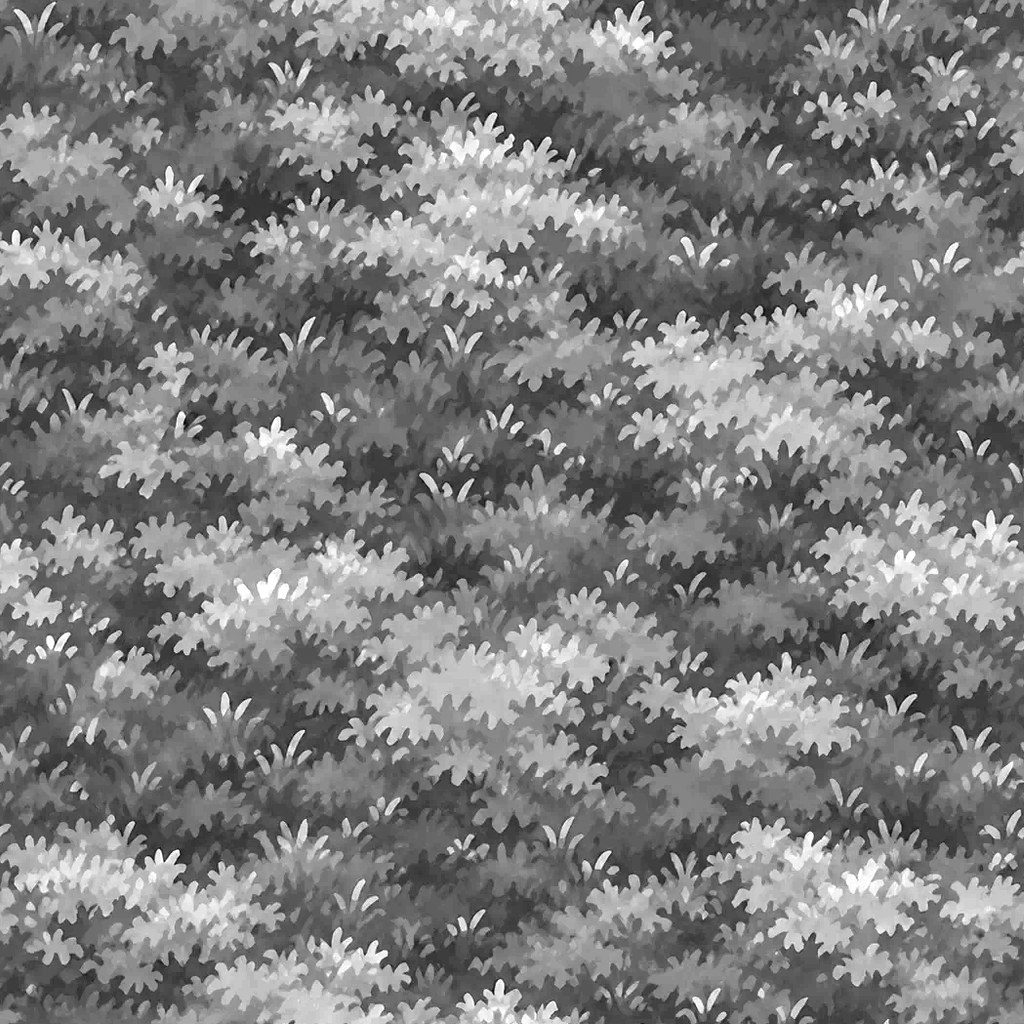
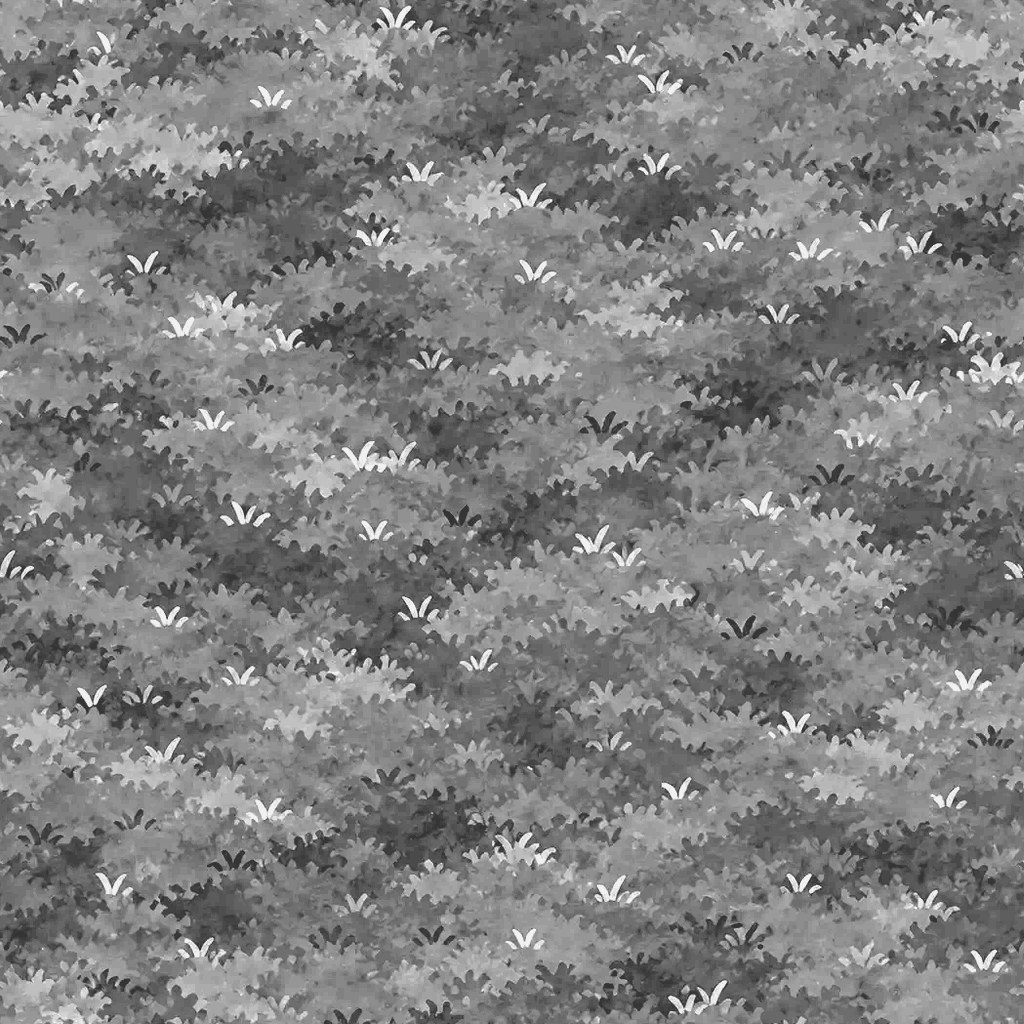
Gräsmönster 1 (deep rough): mjukare tecknad tile
Ny bild som mönster 1: gråskala med lägre kontrast (0,13) och några vita strån avkapade så att de inte dominerar, sömlös med min-cut-söm. Cache-versionen höjd till ?v=4.

Claude-Session: https://claude.ai/code/session_015PHBbkGscdhksZ9Htf2CCd

diff --git a/terrain-shells.js b/terrain-shells.js
@@ -724,7 +724,7 @@
             this._grassTex = cached; this._grassTexReady = !!cached;
             if (this.grassTexOn && !cached && !this._grassTexLoading[v]) {
                 this._grassTexLoading[v] = true;
-                new THREE.TextureLoader().load(v === 2 ? 'grass-tile-2.jpg?v=2' : 'grass-tile.jpg?v=3', (tex) => {
+                new THREE.TextureLoader().load(v === 2 ? 'grass-tile-2.jpg?v=2' : 'grass-tile.jpg?v=4', (tex) => {
                     tex.wrapS = tex.wrapT = THREE.RepeatWrapping;
                     tex.minFilter = THREE.LinearMipmapLinearFilter; tex.magFilter = THREE.LinearFilter;
                     tex.generateMipmaps = true; tex.anisotropy = 4;

diff --git a/SYSTEM_MAP.md b/SYSTEM_MAP.md
@@ -306,7 +306,7 @@ Adressen i byggaren förblir `?autorun=edit_build&edit=KOD` efter sparning. Test
 `terrain-shells.js`: gräset är 3/5/8 skal (LOW/MED/HIGH) ovanpå terrängen. Masken (`rebuildRoughMask`) har R=rough, G=deep rough, B=semi-rough; fairway, green och sand får inget gräs. Höjder (m): semi-rough 0,12 (40 % av rough-reglaget), rough 0,30, deep rough 0,60. De är överdrivna med flit: med verkliga höjder (4-8 cm) syns inga skal på spelavstånd (provat). Fragment-shadern måste ha alla uniforms den läser (`uLayers` saknades en gång: shadern kompilerade inte, inget gräs ritades och ingen sidfel kom; smoke-testet "3D grass shells compile" fångar det).
 Sculpt: medan en penseldrag pågår följer 3D-gräset marken via `queueRegionSync` (bara höjder, bara det rörda området, högst ca 12 gånger/s, anropas efter `syncDirtyPositions` i sculpt-loopen och i RAMP). Förut hölls skalen kvar tills man släppte, så gräset sjönk ner i en höjd som växte. Normaler och en full omsampling sker som förut vid släpp (`finalizeSculptStroke`).
 
-Grästextur på deep rough (av som standard, `?grasstex=1` eller `=2` (andra tilen, `grass-tile-2.jpg`, finare och mer upprättstående blad) slår på och minns, `?grasstex=0` stänger av; kreditering i `CREDITS.md`): `grass-tile.jpg` (mönster 1: 1024², gråskala, sömlös tile gjord av en tecknad gräsbild uppifrån med kullar av blad, ca 285 KB; laddas som `grass-tile.jpg?v=3`, höj versionen vid nästa byte) laddas av `setGrassTex` och multipliceras som ljus/mörker på biomens färg i skalshadern, bara för deep rough, i två skalor (den andra roterad) så att tile-upprepningen inte syns. Mipmaps tonar ut den på avstånd. Ingen höjd eller siluett, bara yta. Kontrollera att bildens licens tillåter publicering.
+Grästextur på deep rough (av som standard, `?grasstex=1` eller `=2` (andra tilen, `grass-tile-2.jpg`, finare och mer upprättstående blad) slår på och minns, `?grasstex=0` stänger av; kreditering i `CREDITS.md`): `grass-tile.jpg` (mönster 1: 1024², gråskala, sömlös tile gjord av en mjuk tecknad gräsbild uppifrån med blad och små strån, kontrast 0,13, ca 285 KB; laddas som `grass-tile.jpg?v=4`, höj versionen vid nästa byte) laddas av `setGrassTex` och multipliceras som ljus/mörker på biomens färg i skalshadern, bara för deep rough, i två skalor (den andra roterad) så att tile-upprepningen inte syns. Mipmaps tonar ut den på avstånd. Ingen höjd eller siluett, bara yta. Kontrollera att bildens licens tillåter publicering.
 
 Kantviktning (av som standard, `?grassedge=1` slår på och minns, `?grassedge=0` stänger av): `setEdgeMapFromMask` (hoppas över medan både kantfunktionerna är av, byggs vid påslag) bygger en 1024×1024 "närhet till kant"-karta (1 vid kant mot fairway/green/sand, 0 några meter in, `edgeWidth` 5,5 m). Långt inne i gräset ritas bara de nedre skalen (`_isInteriorLayer`: skal 1, plus ett mittskal på MED/HIGH), nära kant alla; en dither gör övergången mjuk. De övre skalen får dessutom bara geometri i kantremsan (`_buildStrip`: ett eget index över samma hörn, bara rutor med gräs vid en kant, plus en ruta marginal), så trianglarna minskar och inte bara pixlarna (i smoke-testets fairway-ruta 2 000 av 80 000 trianglar per övre skal). Bildtid på riktig mobil är ännu inte mätt.
 

diff --git a/CREDITS.md b/CREDITS.md
@@ -5,4 +5,4 @@
 Derived from vector artwork downloaded from Magnific (formerly Freepik), made into small seamless greyscale tiles.
 
 - `grass-tile-2.jpg`: "Fresh green grass turf on light green background" by **starline**, https://www.magnific.com/free-vector/fresh-green-grass-turf-light-green-background_427670624.htm (free licence: attribution required). Rebuilt as a seamless tile (the middle seam of the first version is gone): crop of the render, low frequencies removed, min-cut wrap seams in x and y.
-- `grass-tile.jpg`: made from a cartoon-style top-down grass image supplied by the project owner (2026-10), scaled, flattened of its large-scale shading and made seamless with a min-cut seam; original source and licence terms to be confirmed and added here. (Before that it came from the vector file `2003.i305.019 realistic green grass`, Magnific / Freepik.)
+- `grass-tile.jpg`: made from a soft cartoon-style top-down grass image supplied by the project owner (2026-10, replaces an earlier cartoon tile), scaled, flattened of its large-scale shading and made seamless with a min-cut seam; original source and licence terms to be confirmed and added here. (Before that it came from the vector file `2003.i305.019 realistic green grass`, Magnific / Freepik.)
